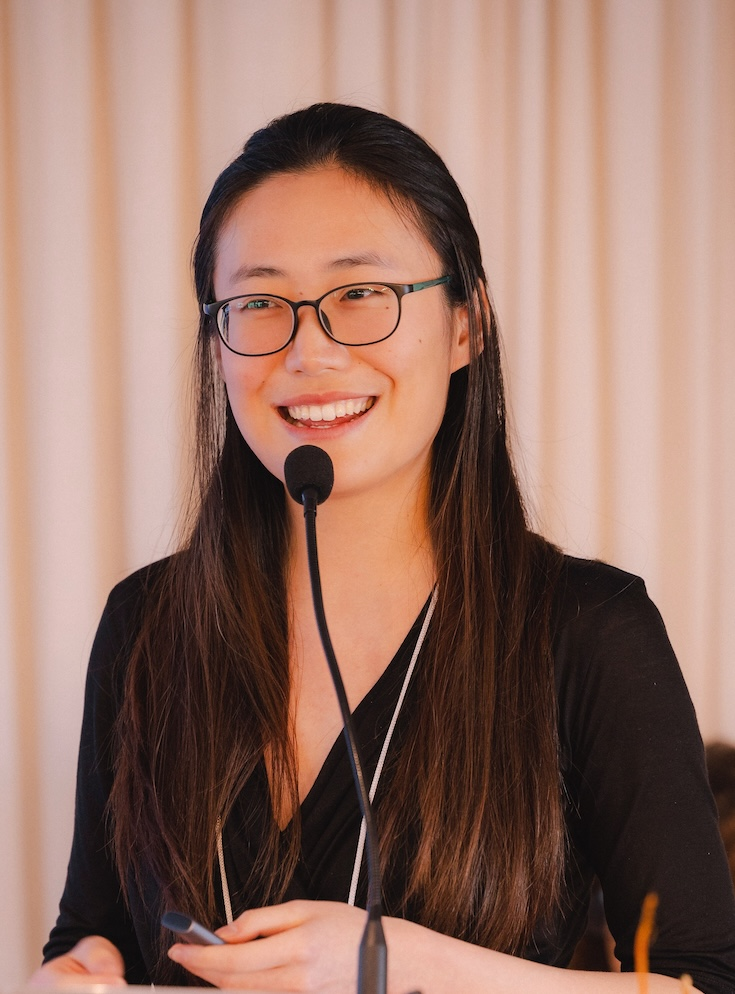
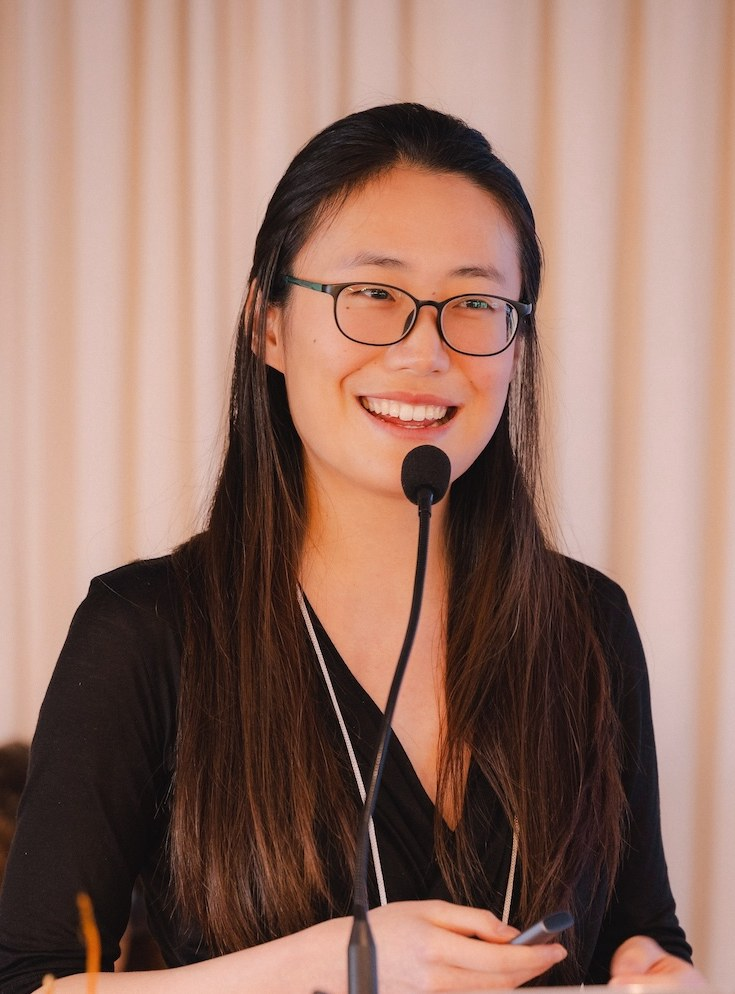
fix some links

diff --git a/_sass/custom.scss b/_sass/custom.scss
@@ -177,7 +177,7 @@ $rule: #e6e6e6;
   display: flex;
   gap: 2rem;
   align-items: center;
-  &__text { flex: 1 1 55%; }
+  &__text { flex: 1 1 55%; text-align: justify; }
   &__fig {
     flex: 0 0 40%;
     img { width: 100%; }

diff --git a/en/about.md b/en/about.md
@@ -32,7 +32,7 @@ lightbox: true
 </div>
 
 <div class="bio">
-<p>I'm Qianou (Christina) Ma, a Ph.D. candidate at Carnegie Mellon University's Human-Computer Interaction Institute, co-advised by <a href="https://hcii.cmu.edu/people/ken-koedinger">Dr. Ken Koedinger</a> and <a href="https://www.cs.cmu.edu/~sherryw/index.html">Dr. Sherry Tongshuang Wu</a>. I work at the intersection of human–AI interaction, generative AI, and the learning sciences.</p>
+<p>I am a Ph.D. candidate at Carnegie Mellon University's Human-Computer Interaction Institute, co-advised by <a href="https://hcii.cmu.edu/people/ken-koedinger">Dr. Ken Koedinger</a> and <a href="https://www.cs.cmu.edu/~sherryw/index.html">Dr. Sherry Tongshuang Wu</a>. I work at the intersection of human–AI interaction, generative AI, and the learning sciences.</p>
 
 <p>Large language models are redefining human work, yet people benefit from them unequally because of how they collaborate with AI and how human–AI systems are designed. In my Ph.D., I've been focused on programming, the frontier where LLMs are changing both what it means to program and who gets to do it. My research asks: <b>how could we enable everyone for the AI era?</b> Specifically, I ask:</p>
 

diff --git a/zh/about.md b/zh/about.md
@@ -32,7 +32,7 @@ lightbox: true
 </div>
 
 <div class="bio">
-<p>你好！我是<b>马千鸥</b>，卡内基梅隆大学人机交互研究所的博士候选人，导师为 <a href="https://hcii.cmu.edu/people/ken-koedinger">Ken Koedinger 教授</a>和<a href="https://www.cs.cmu.edu/~sherryw/index.html">吴彤霜（Sherry Tongshuang Wu）教授</a>。我的研究位于人机交互、生成式AI与学习科学的交叉领域。</p>
+<p>你好！我是卡内基梅隆大学人机交互研究所的博士候选人，导师为 <a href="https://hcii.cmu.edu/people/ken-koedinger">Ken Koedinger 教授</a>和<a href="https://www.cs.cmu.edu/~sherryw/index.html">吴彤霜（Sherry Tongshuang Wu）教授</a>。我的研究位于人机交互、生成式AI与学习科学的交叉领域。</p>
 
 <p>大型语言模型正在重塑人类的工作方式，但由于人们与AI协作的方式不同、人机系统的设计不同，人们从中获益并不均等。读博期间，我一直专注于编程领域：在这一前沿，大模型正在改变“编程”的含义，也在改变谁能够编程。我的研究关注：<b>我们如何让每个人都为AI时代做好准备？</b>具体而言，我探讨：</p>
 

diff --git a/docs/_en_portfolio/7-seagulls1000.md b/docs/_en_portfolio/7-seagulls1000.md
@@ -24,5 +24,6 @@ I’ve written more than **500,000** words, **80+** articles, and made **20+** v
 | `Scan the QR code if you have WeChat!` |
 | -- |
 |![](/assets/images/seagulls1000-scan.jpg)|
+
 [BFOB]: https://qianouma.medium.com/85219-biological-foundations-of-behavior-marlene-behrmann-5890c41d7296
-[here]: https://www.cmu.edu/dietrich/english/mlk/2019/ma-christina.html
+[here]: https://www.cmu.edu/mcs/news-events/2019/0109_MLK_Writing_Awards.html
